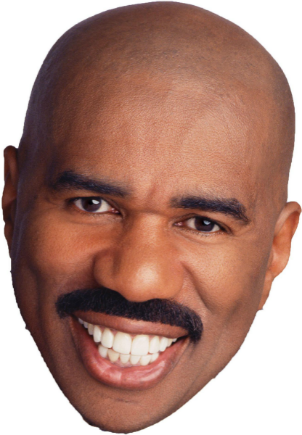
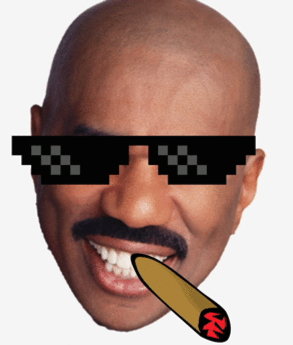
made into gif

diff --git a/index.html b/index.html
@@ -4,6 +4,7 @@
     <meta charset="utf-8" />
     <meta name="viewport" content="width=device-width, initial-scale=1.0" />
     <title>Kevin Fiddler</title>
+    <link href='http://fonts.googleapis.com/css?family=Bowlby+One+SC' rel='stylesheet' type='text/css'>
     <link rel="stylesheet" href="css/animate.min.css">
     <link rel="stylesheet" href="css/foundation.css" />
     <link rel="stylesheet" href="foundation-icons/foundation-icons.css"/>
@@ -20,15 +21,25 @@
             <a href="http://ebay.com"> <i class="fi-shopping-cart"></i> </a>
         </h1>
         <hr class="fancy-line"></hr>
-        <div id="steve" class="large-6 small-10 small-centered large-centered columns ">
-            <img class="animated slideInDown " id="glasses" src="img/glasses.png">
-            <img class="animated fadeInUpBig" id="cigar" src="img/cigar.png">
+        <div id="main">
+            <img class="large-12 small-12 small-centered large-centered columns" id="steve" src="img/steve.gif">
+             <img class="large-12 small-12 small-centered large-centered columns" id="picture"src="img/steve1.png">
         </div>
+
     </div>
   <script src="js/vendor/jquery.js"></script>
   <script src="js/foundation.min.js"></script>
   <script>
     $(document).foundation();
+    $(function() {
+    // setTimeout() function will be fired after page is loaded
+    // it will wait for 5 sec. and then will fire
+    // $("#successMessage").hide() function
+    setTimeout(function() {
+        $("#steve").hide();
+        $("#picture").show();
+    }, 3000);
+});
   </script>
 
   </body>

diff --git a/css/application.css b/css/application.css
@@ -1,28 +1,18 @@
 h1 {
 	text-align: center;
+	font-family: 'Bowlby One SC', cursive;
+}
+#main {
+	margin-top: 50px;
 }
 #steve {
-	height: 500px;
-	background-image: url(../img/steve.png);
-	background-size: contain;
-	background-repeat: no-repeat;
-	background-position: center;
+	height: 400px;
 }
-#glasses {
-	height: 80px;
-	margin-top: 13em;
-	margin-left: 2em;
-	-webkit-animation-duration: 1s;
-  -webkit-animation-delay: 2s;
-  -webkit-animation-iteration-count: 1;
-}
-#cigar {
-	height: 130px;
-	margin-left: 13em;
-	margin-top: 6em;
-	-webkit-animation-duration: 1s;
-  -webkit-animation-delay: 3s;
-  -webkit-animation-iteration-count: 1;
+#picture {
+	height: 400px;
+	margin-left: 12%;
+	width: 80%;
+	display: none;
 }
 
 i {
@@ -76,13 +66,3 @@ body, hr.fancy-line:after {
     background: #f4f4f4;
 }
 
-
-@media only screen 
-and (min-device-width : 375px) 
-and (max-device-width : 667px) 
-and (orientation : portrait) { 
-
-body {
-	background-color: red;
-}
- }
